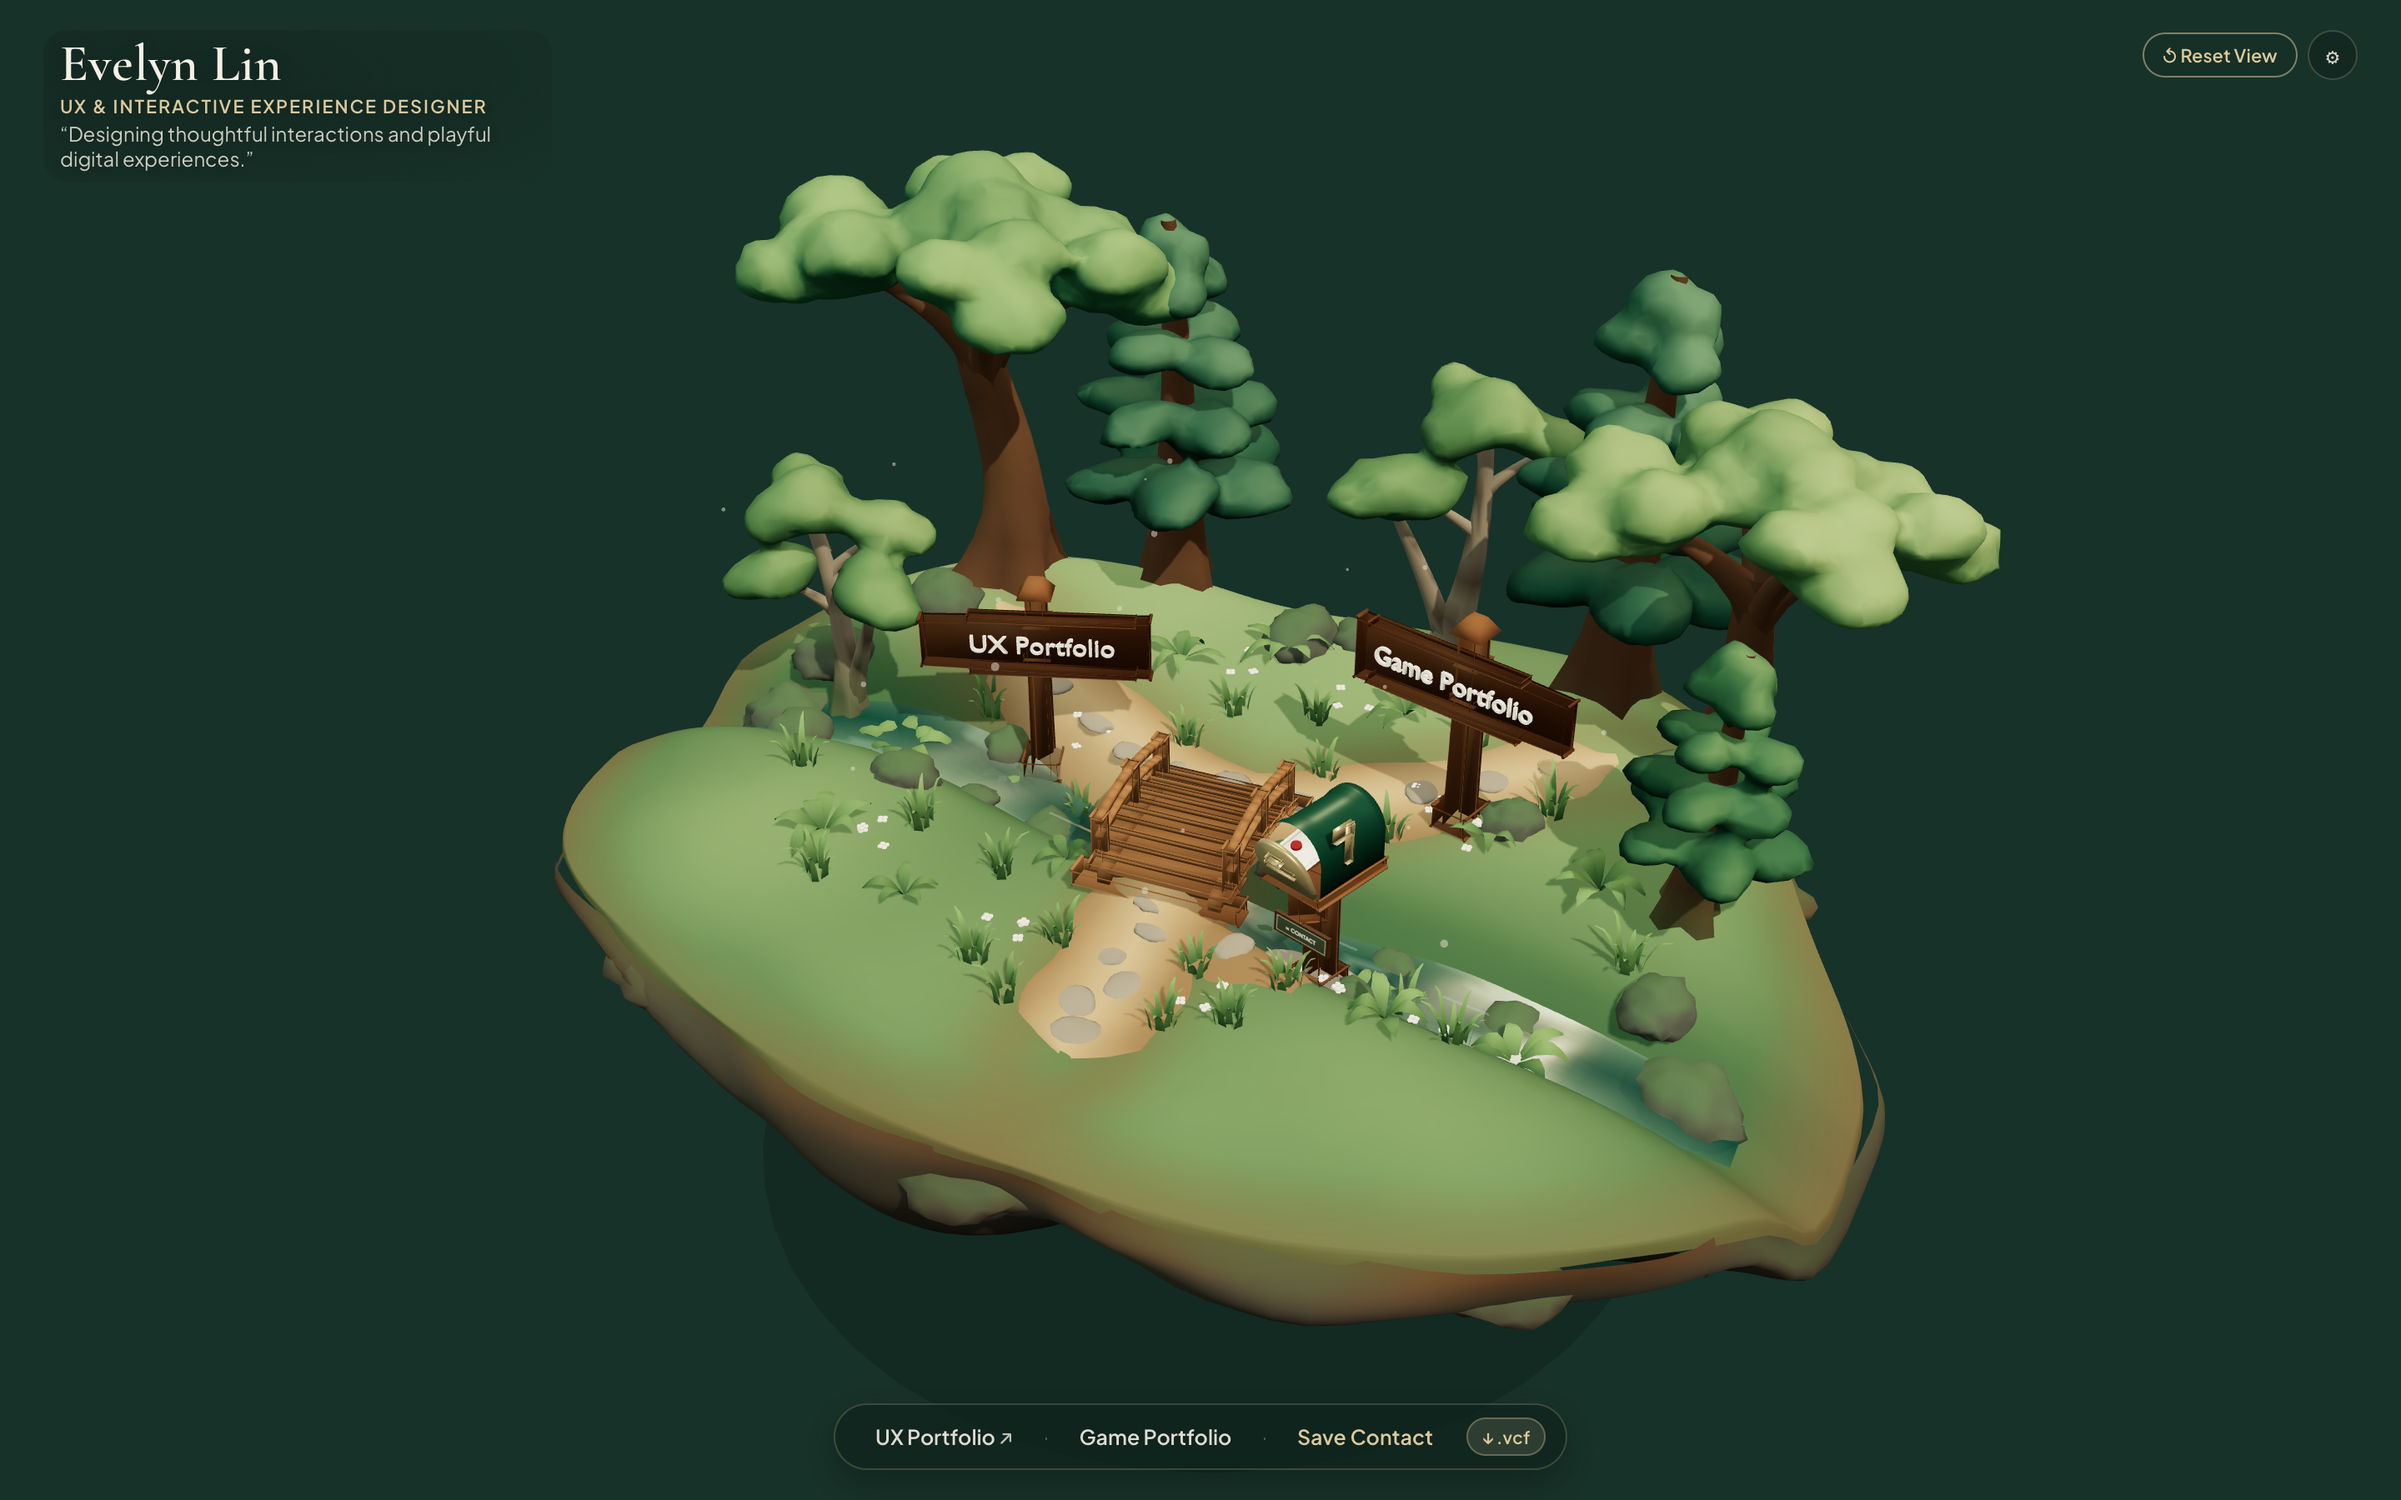
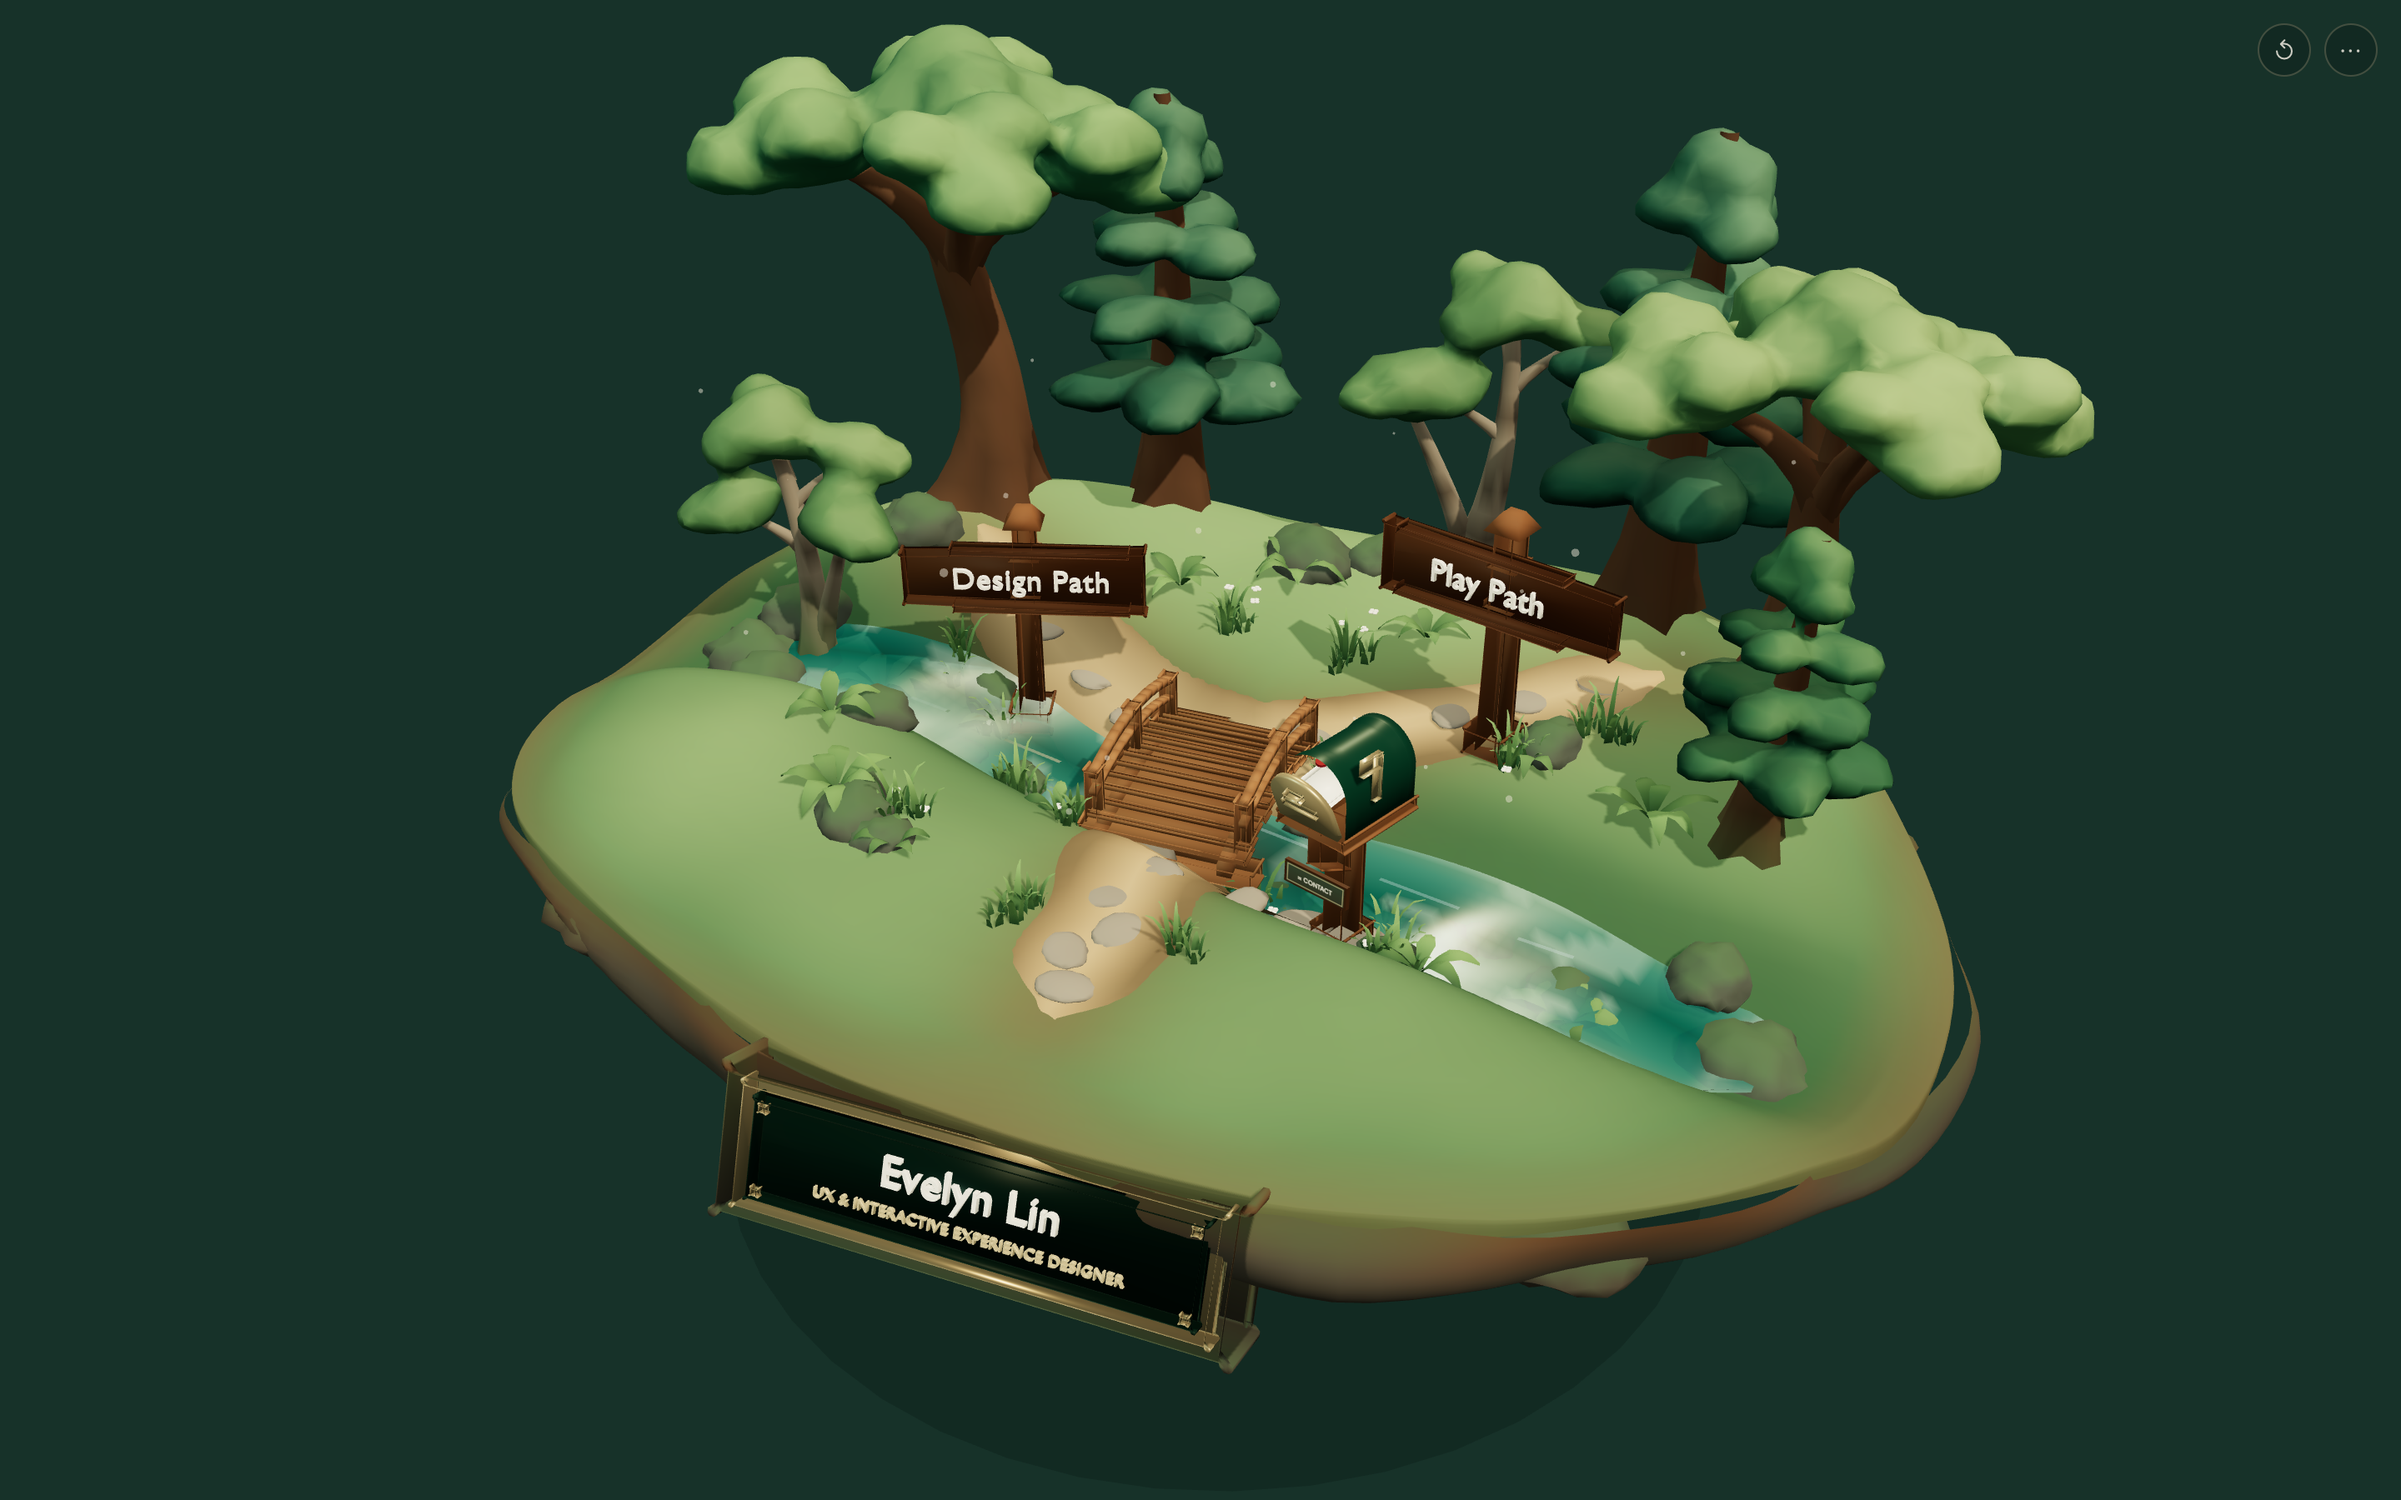
Update V3 screenshots, deep forest-green mailbox hood, and V3 asset manifest

diff --git a/src/components/world/Mailbox.tsx b/src/components/world/Mailbox.tsx
@@ -40,10 +40,9 @@ export const Mailbox: React.FC<MailboxProps> = ({
         bumpScale: 0.018,
       }),
       body: new THREE.MeshStandardMaterial({
-        color: '#ffffff',
-        vertexColors: true,
-        roughness: 0.38,
-        metalness: 0.25,
+        color: '#1E4A3B',
+        roughness: 0.36,
+        metalness: 0.26,
       }),
       brass: new THREE.MeshStandardMaterial({
         color: '#E0CB9B',
@@ -198,7 +197,7 @@ export const Mailbox: React.FC<MailboxProps> = ({
 
       {/* Compact, artisanal engraved brass nameplate mounted neatly below the corbel brace */}
       <group
-        position={[1.11, 0.62, 1.24]}
+        position={[1.08, 0.55, 1.33]}
         rotation={[-0.06, THREE.MathUtils.degToRad(-22), 0]}
       >
         <mesh castShadow={shadows}>

diff --git a/assets/ASSET_MANIFEST.md b/assets/ASSET_MANIFEST.md
@@ -1,4 +1,4 @@
-# 3D Asset Package & Provenance Manifest (V2 Art Direction Overhaul)
+# 3D Asset Package & Provenance Manifest (V3 Object-First Collectible Transformation)
 **Project:** The Crossroads — High-Fidelity 3D Interactive NFC Business Card (`evelyn-3d-nfc-card`)  
 **Owner:** Evelyn Lin  
 **Authoring Tool:** Blender 5.0.0 (`/Applications/Blender.app/Contents/MacOS/Blender`)  
@@ -10,38 +10,40 @@
 
 | Asset Path | Role | Format | Size | Description |
 | :--- | :--- | :--- | :--- | :--- |
-| `blender/build_crossroads_scene.py` | Procedural & BMesh/Voxel Sculpting Pipeline | Python (`bpy` / `bmesh`) | ~36 KB | Deterministic Blender 5.0 V2 generator authoring 3 distinct tree archetypes, craggy island terrain, integrated bridge abutments, 3D vertex-color AO/sunlight gradients, and hero props. |
-| `assets/source/crossroads_master.blend` | Master Editable 3D Source | Blender 5.0 (`.blend`) | ~4.2 MB | Editable master Blender scene containing all 35 separated objects, vertex color layers (`Col`), PBR material nodes, lighting rig, and preview camera. |
-| `public/models/crossroads_environment.glb` | Optimized Runtime 3D Scene | Binary glTF 2.0 (`.glb`) | ~3.9 MB (`~1.05 MB` gzip) | Optimized Y-up runtime scene with baked `COLOR_0` vertex attributes loaded by React Three Fiber. |
-| `assets/renders/blender_view_initial.png` | Blender Reference Render (Initial) | PNG (`960×1200`) | ~410 KB | Headless Blender EEVEE verification render of the initial V2 composition. |
-| `assets/renders/blender_view_rotated.png` | Blender Reference Render (Rotated) | PNG (`960×1200`) | ~415 KB | Headless Blender EEVEE verification render of the rotated V2 composition. |
+| `blender/build_crossroads_scene.py` | Procedural & BMesh/Voxel Sculpting Pipeline | Python (`bpy` / `bmesh`) | ~41 KB | Deterministic Blender 5.0 V3 generator authoring the embedded 3D front identity plaque, widened pebble-bed creek, cleaned-up front terrain contour, purposefully clustered vegetation, 3 tree archetypes, and renamed `Design Path` / `Play Path` signs. |
+| `assets/source/crossroads_master.blend` | Master Editable 3D Source | Blender 5.0 (`.blend`) | ~2.3 MB | Editable master Blender scene containing all 40 separated objects, vertex color layers (`Col`), PBR material nodes, lighting rig, and preview camera. |
+| `public/models/crossroads_environment.glb` | Optimized Runtime 3D Scene | Binary glTF 2.0 (`.glb`) | ~3.1 MB (`~840 KB` gzip) | Optimized Y-up runtime scene with baked `COLOR_0` vertex attributes loaded by React Three Fiber. |
+| `assets/renders/blender_view_initial.png` | Blender Reference Render (Initial) | PNG (`960×1200`) | ~420 KB | Headless Blender EEVEE verification render of the initial V3 collectible composition. |
+| `assets/renders/blender_view_rotated.png` | Blender Reference Render (Rotated) | PNG (`960×1200`) | ~425 KB | Headless Blender EEVEE verification render of the rotated V3 collectible composition. |
 
 ### Geometry & Polygon Budget
-- **Total Vertices:** `60,772`
-- **Total Triangles:** `107,934`
-- **Total Scene Objects / Draw Primitives:** `35`
+- **Total Vertices:** `77,557`
+- **Total Triangles:** `133,538`
+- **Total Scene Objects / Draw Primitives:** `40`
 
 ---
 
-## 2. V2 Art Direction Overhaul — Scene Graph & Material System
+## 2. V3 Scene Graph & Collectible Architecture
 
-- **Sculpted Floating Island & Cliff Outcrops**
-  - `Island_Terrain_Top` — 64 concentric radial rings × 144 segments of asymmetric multi-elevation terrain with northwest/northeast ridges, carved diagonal creek valley, integrated bridge abutment ramps, irregular draping turf overhang, and 4-channel vertex-color terrain splatting (meadow grass, creek moss, sunlit ridge, pathside loam).
-  - `Island_Rock_Underside` — 36-ring × 144-segment unified craggy rock-and-earth underside with vertical cliff buttresses, stone ledges, and eroded soil-to-rock vertex color transitions (replacing flat horizontal layers).
-  - `Island_Soil_Rim` — Integrated cliff buttress shelves and hanging root tendrils underneath the turf lip.
-- **Three Distinct Sculpted Tree Archetypes (with VoxelFusion + CorrectiveSmooth + 3D Vertex Color Gradients)**
-  - **Archetype 1 — Gnarled Ancient Woodland Oak (`Tree_NW_Hero`, `Tree_NE_Hero`):** S-curved root-buttressed trunk with 5 diverging limbs, visible secondary branches, and 22 varied foliage bough clusters fused via Voxel Remesh + Corrective Smooth + organic leaf-tuft displacement.
-  - **Archetype 2 — Slender Twin-Stem Stream Birch / Alder (`Tree_N_Center`, `Tree_W_Flank`):** Graceful leaning twin trunks with pale cinereous bark and dark horizontal lenticel markings, supporting airy multi-level foliage pads.
-  - **Archetype 3 — Layered Woodland Cedar / Spruce (`Tree_N_Left`, `Tree_N_Right`, `Tree_E_Flank`):** Tall vertical conifer with spirally arranged, drooping scalloped bough clusters providing strong vertical silhouette contrast.
-- **Shallow Woodland Creek, Integrated Bridge & Crossroads Pathways**
-  - `Stream_Water` — Varied-width shallow creek with depth-tinted olive-teal to amber-sage vertex color gradients and subtle flow ripples.
-  - `Wooden_Bridge` — Arched 11-plank hand-hewn oak footbridge anchored into bank timber sill beams and stone-and-earth abutments.
-  - `Crossroads_Pathway` & `Pathway_Cobbles` — Continuous sunken loam pathways with feathered borders, sandstone flagstones, and a dedicated cobblestone spur leading to the mailbox alcove.
-- **Botanical Ground Cover & Boulders**
-  - `Environment_Rocks` — Chiseled mossy boulders at the NW spring grotto, creek banks, submerged riverbed, and ridge vista.
-  - `Forest_Ferns` — Asymmetric pinnate woodland fern rosettes and multi-blade 3D grass clumps with root-to-tip vertex color gradients.
-  - `Wildflowers` — Clustered multi-petal wildflower blossoms tucked beside rocks and signposts.
-- **Interactive Hero Landmarks**
-  - `Signpost_UX_Post`, `Signpost_UX_Board`, `Signpost_UX_Label3D` — Tapered chamfered oak post with pyramid cap, wrought-iron mounting straps, molded directional plaque, and low-relief chiseled `UX Portfolio` lettering.
-  - `Signpost_Game_Post`, `Signpost_Game_Board`, `Signpost_Game_Label3D` — Matching artisanal signpost with low-relief chiseled `Game Portfolio` lettering.
-  - `Mailbox_Post`, `Mailbox_Body`, `Mailbox_Door`, `Mailbox_Letter`, `Mailbox_Flag` — Hero-prop vintage woodland mailbox on a cobblestone alcove with curved corbel brace, riveted forest-green hood, articulated brass door with pull handle and louver slot, emerging crimson wax-sealed letter, and signal flag.
+- **Embedded 3D Personal Identity Plaque (Front Cliff Edge)**
+  - `Identity_Plaque_Frame` — Beveled champagne-brass outer bezel (`2.66 × 0.68`) with 4 corner rivets mounted into the chiseled front stone mantle (`Island_Soil_Rim`).
+  - `Identity_Plaque_Plate` — Recessed deep-forest oxidized slate/bronze inner tablet (`2.50 × 0.55`).
+  - `Identity_Plaque_Name3D` — Extruded and beveled 3D relief typography: **`Evelyn Lin`**.
+  - `Identity_Plaque_Title3D` — Extruded and beveled 3D relief subtitle: **`UX & INTERACTIVE EXPERIENCE DESIGNER`**.
+- **Sculpted Floating Island & Cleaned-Up Front Terrain**
+  - `Island_Terrain_Top` — 68 concentric radial rings × 152 segments of asymmetric multi-elevation terrain with northwest/northeast ridges, intentional foreground knolls (front-left mossy outcrop knoll and front-right mailbox terrace), smooth rim attenuation around the creek outlet, and 4-channel vertex-color terrain splatting.
+  - `Island_Rock_Underside` & `Island_Soil_Rim` — Unified craggy rock-and-earth underside with vertical cliff buttresses, hanging root systems, and the front chiseled stone plaque mantle.
+- **Widened Woodland Creek, Pebble Riverbed & Integrated Arched Bridge**
+  - `Stream_Bed` — Concave pebble-and-silt riverbed mesh visible beneath the translucent water surface.
+  - `Stream_Water` — Widened shallow creek with an enlarged water pool around and under the bridge, depth-tinted emerald-teal to amber-sage vertex color gradients, and animated surface current detail.
+  - `Wooden_Bridge` — Arched 13-plank hand-hewn oak footbridge anchored into bank timber sill beams and stone-and-earth abutments.
+  - `Crossroads_Pathway` & `Pathway_Cobbles` — Continuous sunken loam pathways with feathered front-terrain blending, sandstone flagstones, and a cobblestone spur to the mailbox alcove.
+- **Three Distinct Sculpted Tree Archetypes & Purposefully Clustered Botanicals**
+  - `Tree_NW_Hero_*`, `Tree_NE_Hero_*` (Archetype 1: Gnarled Ancient Oak)
+  - `Tree_N_Center_*`, `Tree_W_Flank_*` (Archetype 2: Slender Twin-Stem Stream Birch)
+  - `Tree_N_Left_*`, `Tree_N_Right_*`, `Tree_E_Flank_*` (Archetype 3: Layered Woodland Cedar)
+  - `Environment_Rocks`, `Forest_Ferns`, `Wildflowers` — Purposefully clustered boulders, asymmetric fern rosettes, multi-scale 3D grass families, and wildflowers anchored around boulders, creek banks, and posts.
+- **Interactive 3D Landmarks**
+  - `Signpost_UX_Post`, `Signpost_UX_Board`, `Signpost_UX_Label3D` — Left crossroads wooden signpost labeled **`Design Path`** (`https://evelynjlin.com`).
+  - `Signpost_Game_Post`, `Signpost_Game_Board`, `Signpost_Game_Label3D` — Right crossroads wooden signpost labeled **`Play Path`**.
+  - `Mailbox_Post`, `Mailbox_Body`, `Mailbox_Door`, `Mailbox_Letter`, `Mailbox_Flag` — Hero-prop vintage woodland mailbox that animates open to unfold the physical cream-parchment contact letter.
